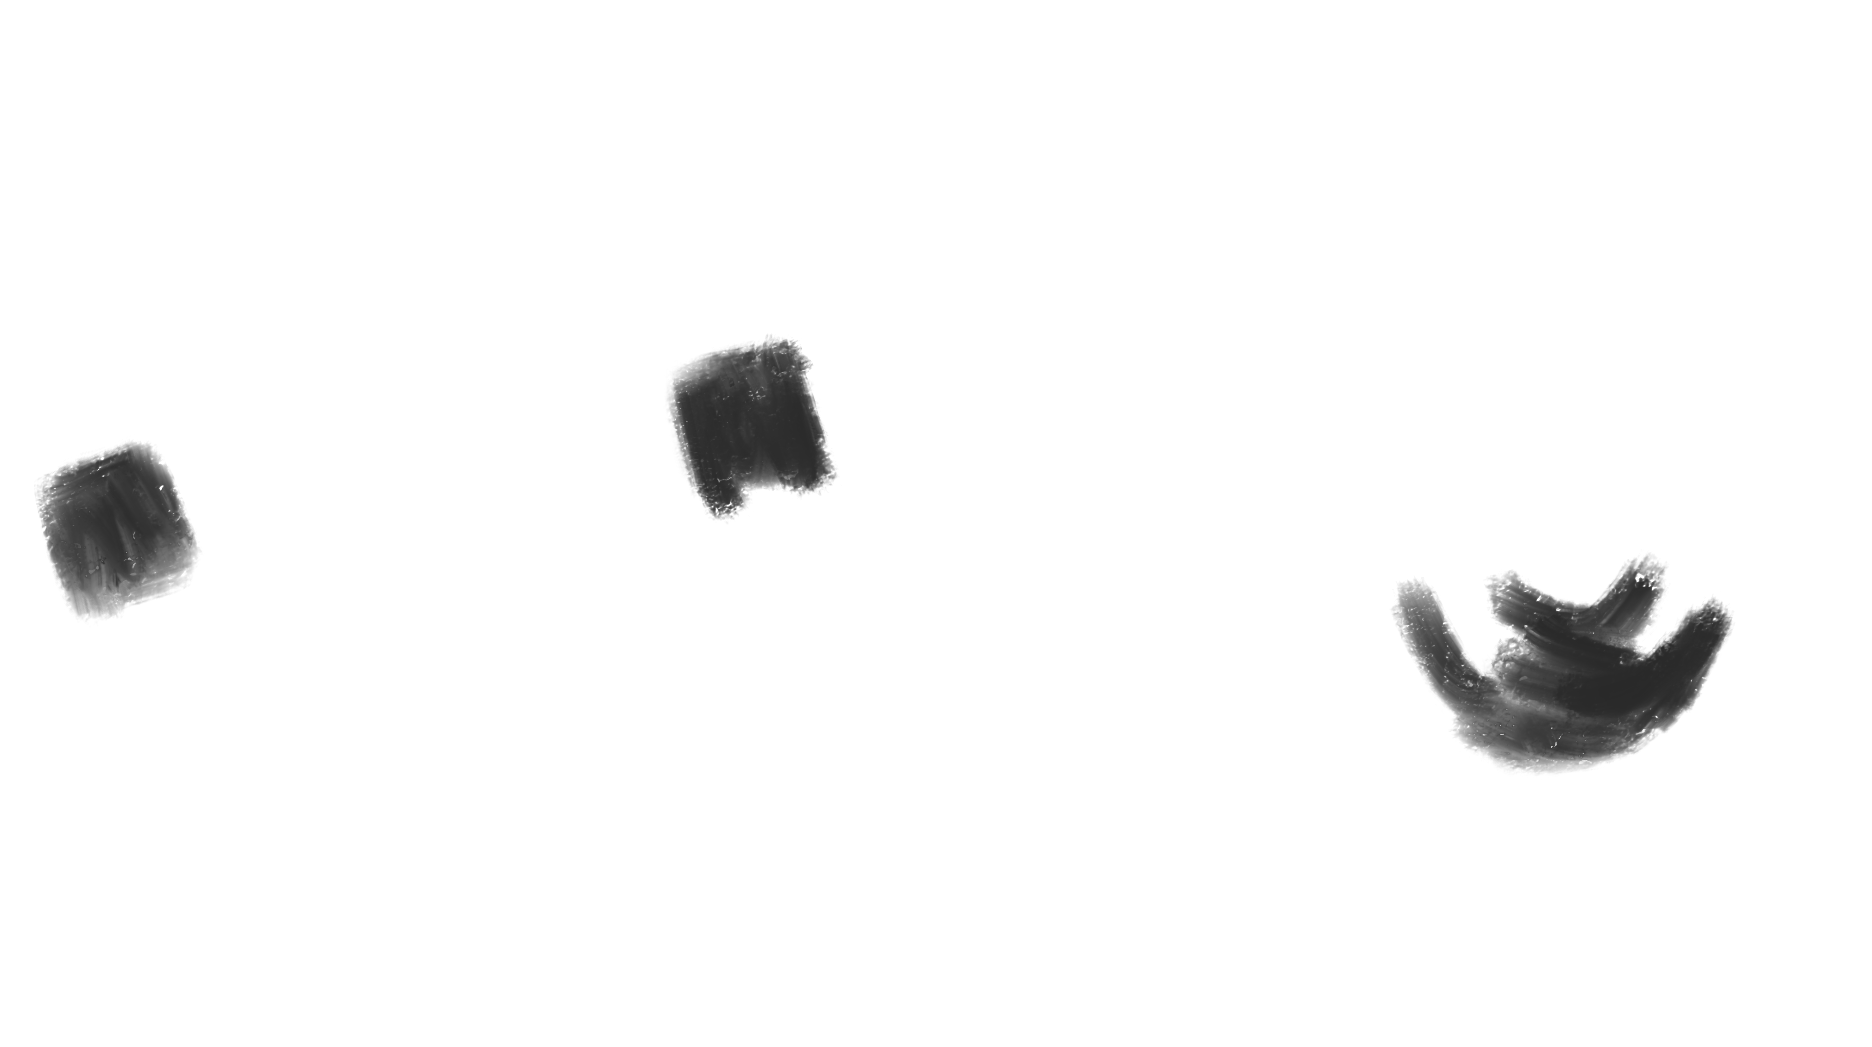
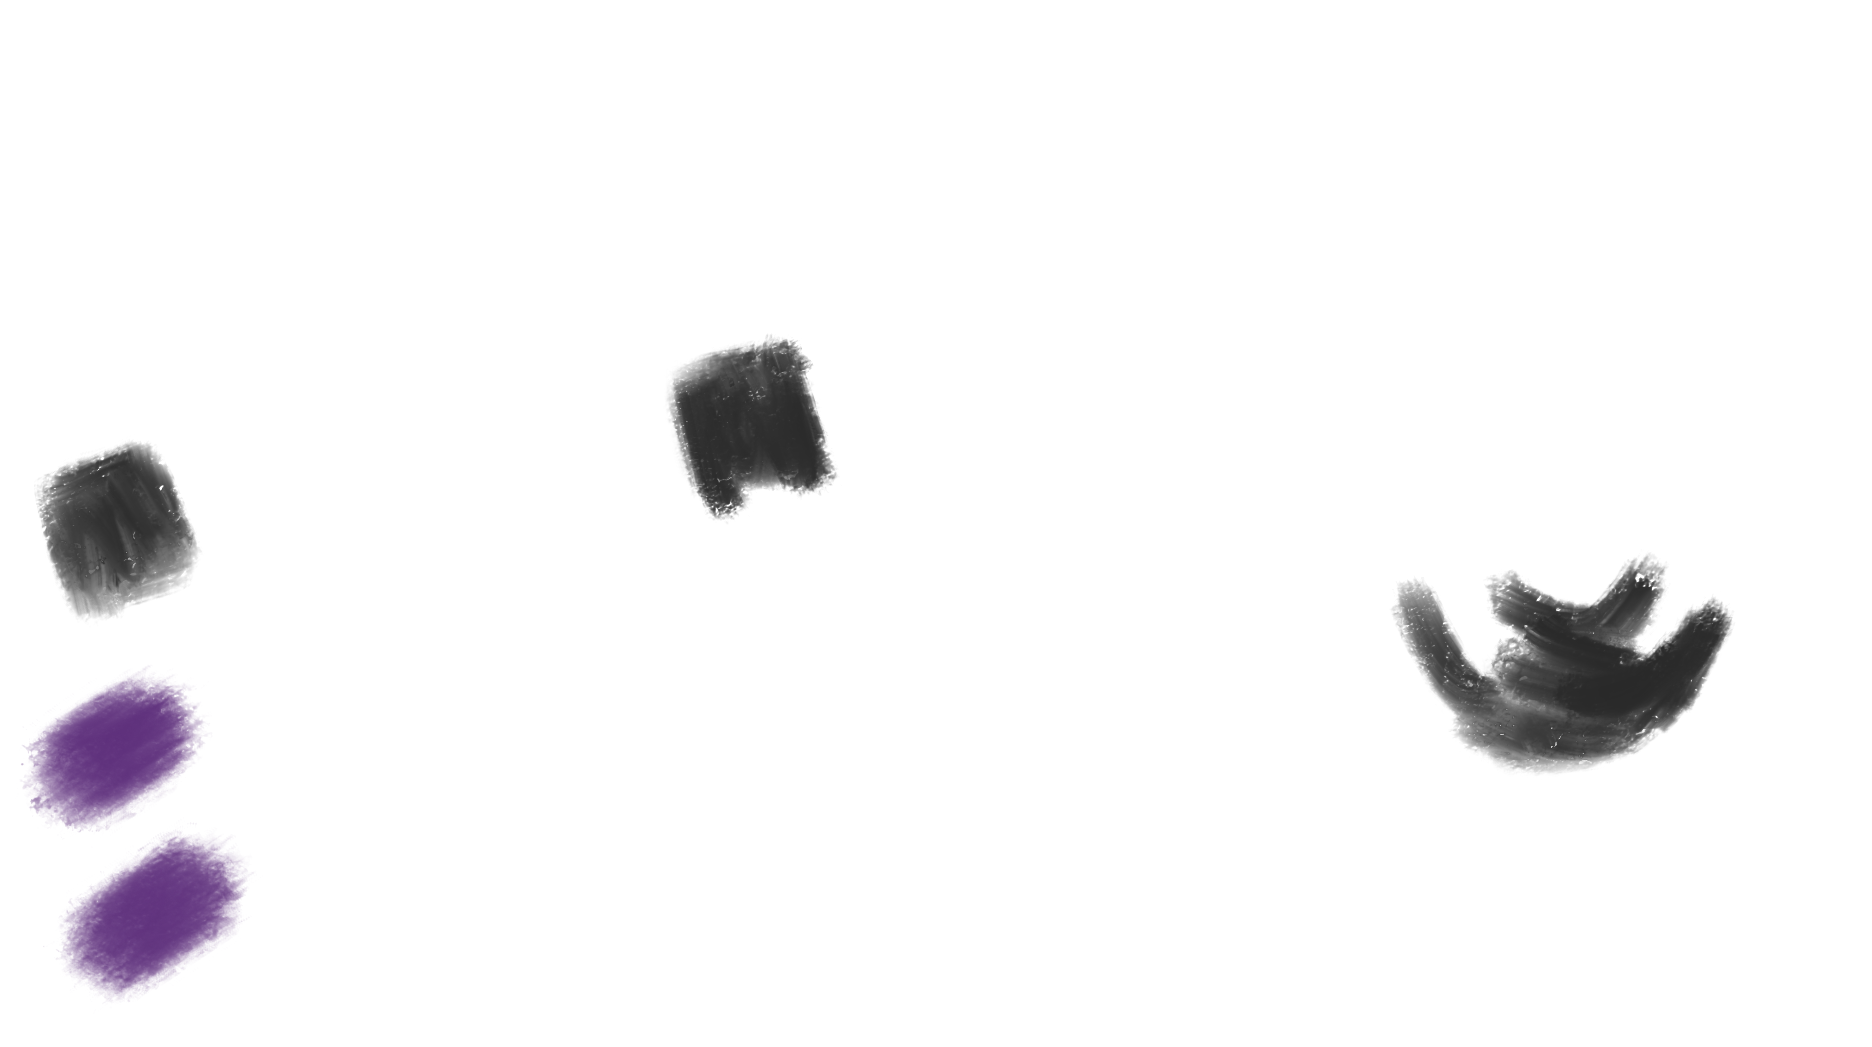
Small Refactor + new animation

Changed region(s): [[0.0, 0.6418, 0.1549, 0.9475]]

diff --git a/model/JUno.java b/model/JUno.java
@@ -1,3 +1,4 @@
+package model;
 
 import java.util.ArrayList;
 import java.util.List;
@@ -5,8 +6,6 @@ import java.util.TreeMap;
 
 import controller.Controller;
 import controller.ControllerFX;
-import model.Loop;
-import model.Player;
 import model.cards.Card;
 import model.cards.Deck;
 import model.cards.Suit;
@@ -14,20 +13,33 @@ import model.effects.Effect;
 import model.effects.EffectBuilder;
 
 public class JUno extends Thread {
+    /* SINGLETON */
+    /* --------- */
+    private static JUno instance;
+
+    public static JUno getInstance() {
+        if (instance == null)
+            instance = new JUno();
+        return instance;
+    }
+
+    private JUno() {
+
+    }
+
+    /* ---------------------------------------- */
+
     @Override
     public void run() {
         setName("JUNO");
         test();
     }
 
-    public JUno() {
-    }
-
     public static void main(String[] args) {
         new JUno().start();
     }
 
-    public static void test() {
+    public void test() {
         /* STANDARD DECK */
         /* ------------- */
         List<Card> standardSet = new ArrayList<Card>(108);
@@ -37,15 +49,15 @@ public class JUno extends Thread {
                     standardSet.add(new Card(color, 0));
                 continue;
             }
+            Effect blockTurn = new EffectBuilder().directTargetToFollowing(1).skipTargetTurn().build();
             for (int i = 1; i < 10; i++) {
                 standardSet.add(new Card(color, i));
                 standardSet.add(new Card(color, i));
             }
             standardSet.add(new Card(color, 0));
             standardSet.add(new Card(color, 0));
-            // Effect blockTurn = new EffectBuilder().directTargetToFollowing(1).skipTargetTurn().build();
-            // standardSet.add(new Card(color, -1, blockTurn));
-            // standardSet.add(new Card(color, 0, blockTurn));
+            standardSet.add(new Card(color, -1, blockTurn));
+            standardSet.add(new Card(color, -1, blockTurn));
 
         }
 
@@ -68,7 +80,6 @@ public class JUno extends Thread {
         // String[] listening = new String[] { "playerDrew", "playerWon", "warning", "turnStart", "cardPlayed" };
         try {
             Loop match = Loop.getInstance();
-            match.setupView(App.getInstance());
             match.setupGame(players, standardDeck, c1);
             match.play();
         } catch (InterruptedException e) {

diff --git a/App.java b/App.java
@@ -6,6 +6,8 @@ import javafx.scene.Scene;
 import javafx.scene.layout.BorderPane;
 import javafx.scene.layout.StackPane;
 import javafx.stage.Stage;
+import model.JUno;
+import model.Loop;
 import model.Player;
 
 import view.DeckContainer;
@@ -30,7 +32,7 @@ public class App extends Displayer {
     }
 
     public App() {
-        super("gameStart", "unoDeclared");
+        super("gameStart", "unoDeclared", "turnBlocked");
         if (instance == null)
             instance = this;
     }
@@ -54,6 +56,8 @@ public class App extends Displayer {
         root.getChildren().add(PlayzonePane.getInstance());
 
         Animations.UNO_TEXT.load();
+        Animations.BLOCK_TURN.load();
+        Animations.CARD_PLAYED.load();
 
         return scene;
     }
@@ -62,17 +66,17 @@ public class App extends Displayer {
     public void start(Stage stage) throws Exception {
         stage.setTitle("JUno");
 
-        stage.setFullScreen(true);
-        stage.setFullScreenExitHint("");
+        // stage.setFullScreen(true);
+        // stage.setFullScreenExitHint("");
 
         // TODO Non so se sia corretto...
         stage.setOnCloseRequest(e -> System.exit(0));
 
         stage.setScene(addContent());
 
-        new JUno().start();
-
         stage.show();
+        Loop.getInstance().setupView(this);
+        JUno.getInstance().start();
     }
 
     @Override
@@ -91,6 +95,8 @@ public class App extends Displayer {
             });
         else if (eventType.equals("unoDeclared"))
             Platform.runLater(() -> Animations.UNO_TEXT.play());
+        else if (eventType.equals("turnBlocked"))
+            Platform.runLater(() -> Animations.BLOCK_TURN.play());
     }
 
     public static void main(String[] args) {

diff --git a/view/animations/Animation.java b/view/animations/Animation.java
@@ -7,6 +7,8 @@ import java.nio.file.Paths;
 
 import javafx.animation.KeyFrame;
 import javafx.animation.Timeline;
+import javafx.event.ActionEvent;
+import javafx.event.EventHandler;
 import javafx.scene.Group;
 import javafx.scene.image.Image;
 import javafx.scene.image.ImageView;
@@ -25,7 +27,7 @@ public class Animation {
     private static Path folderPath;
     private static File folder;
     protected ImageView[] images;
-    
+
     protected Animation(String folderPathname) {
         folderPath = Paths.get(folderPathname);
         folder = new File(folderPathname);
@@ -49,6 +51,10 @@ public class Animation {
     }
 
     public void play() {
+        playAndThen(e -> {});
+    }
+
+    public void playAndThen(EventHandler<ActionEvent> action) {
         Group animation = new Group(images[0]);
 
         Timeline t = new Timeline();
@@ -56,12 +62,15 @@ public class Animation {
 
         for (int i = 1; i < images.length; i++) {
             ImageView img = images[i];
-            t.getKeyFrames()
-                    .add(new KeyFrame(Duration.millis(60.0 * i), e -> animation.getChildren().setAll(img)));
+            KeyFrame frame = new KeyFrame(Duration.millis(60.0 * i), e -> animation.getChildren().setAll(img));
+            t.getKeyFrames().add(frame);
         }
 
-        AnimationLayer.getInstance().getChildren().add(animation);
-        t.setOnFinished(e -> AnimationLayer.getInstance().getChildren().remove(animation));
+        t.setOnFinished(e -> {
+            action.handle(e);
+            AnimationLayer.getInstance().removeAnimationGroup(animation);
+        });
+        AnimationLayer.getInstance().addAnimationGroup(animation);
         t.play();
     }
 

diff --git a/model/Phase.java b/model/Phase.java
@@ -8,7 +8,7 @@ public enum Phase {
     START_TURN((l, g) -> {
         l.events.notify("turnStart", g.getPlayer());
         g.getPlayer().consumeConditions();
-        return false;
+        return true;
     }),
     MAKE_CHOICE((l, g) -> {
         if (g.getPlayer().isHuman())
@@ -23,7 +23,7 @@ public enum Phase {
         else
             g.getPlayer().getHand().stream().filter(g::isPlayable).findAny()
                     .ifPresentOrElse(c -> l.choice = c, () -> l.choice = "draw");
-        return false;
+        return true;
     }),
     PARSE_CHOICE((l, g) -> {
         if (l.choice instanceof Card)
@@ -43,7 +43,7 @@ public enum Phase {
         } else if (l.choice instanceof Integer) {
             l.choiceType = "cardPosition";
         }
-        return false;
+        return true;
     }),
     RESOLVE_CHOICE((l, g) -> {
         return l.choiceTypes.getOrDefault(l.choiceType, () -> {
@@ -57,7 +57,7 @@ public enum Phase {
         l.choice = null;
         l.choiceType = null;
         l.unoDeclared = false;
-        return false;
+        return true;
     });
 
     public BiFunction<Loop, Game, Boolean> execution;

diff --git a/view/animations/AnimationLayer.java b/view/animations/AnimationLayer.java
@@ -1,5 +1,6 @@
 package view.animations;
 
+import javafx.application.Platform;
 import javafx.scene.Group;
 
 public class AnimationLayer extends Group {
@@ -14,5 +15,17 @@ public class AnimationLayer extends Group {
     }
 
     private AnimationLayer() {
+    }
+
+    protected void addAnimationGroup(Group animation) {
+        Platform.runLater(() -> {
+            getChildren().add(animation);
+        });
+    }
+
+    protected void removeAnimationGroup(Group animation) {
+        Platform.runLater(() -> {
+            getChildren().remove(animation);
+        });
     }
 }

diff --git a/view/animations/Animations.java b/view/animations/Animations.java
@@ -1,5 +1,9 @@
 package view.animations;
 
 public abstract class Animations {
-    public static final Animation UNO_TEXT = new Animation("resources\\AnimazioneUno+");
+    public static final Animation UNO_TEXT = new Animation("resources\\AnimazioneUno");
+
+    public static final Animation BLOCK_TURN = new Animation("resources\\BlockTurn");
+
+    public static final Animation CARD_PLAYED = new Animation("resources\\PlayCard");
 }

diff --git a/model/Actions.java b/model/Actions.java
@@ -47,7 +47,8 @@ public abstract class Actions {
     }
 
     public static void skipTurn() {
-        Loop.getInstance().currentPhase = 4;
+        Loop.getInstance().currentPhase = Loop.getInstance().phases.length - 2;
+        Loop.getInstance().events.notify("turnBlocked", Game.getInstance().getPlayer());
     }
 
     public static void shuffle() {

diff --git a/view/TerrainPane.java b/view/TerrainPane.java
@@ -35,7 +35,7 @@ public class TerrainPane extends StackPane implements EventListener {
 
     @Override
     public void update(String eventType, Object data) {
-        if (eventType.equals("cardPlayed"))
+        if (eventType.equals("cardPlayed")) 
             Platform.runLater(() -> updateTerrainCard((Card) data));
     }
 }

diff --git a/model/Game.java b/model/Game.java
@@ -90,7 +90,6 @@ public class Game {
         this.deck = deck;
     }
 
-
     public int getTurn() {
         return turn;
     }
